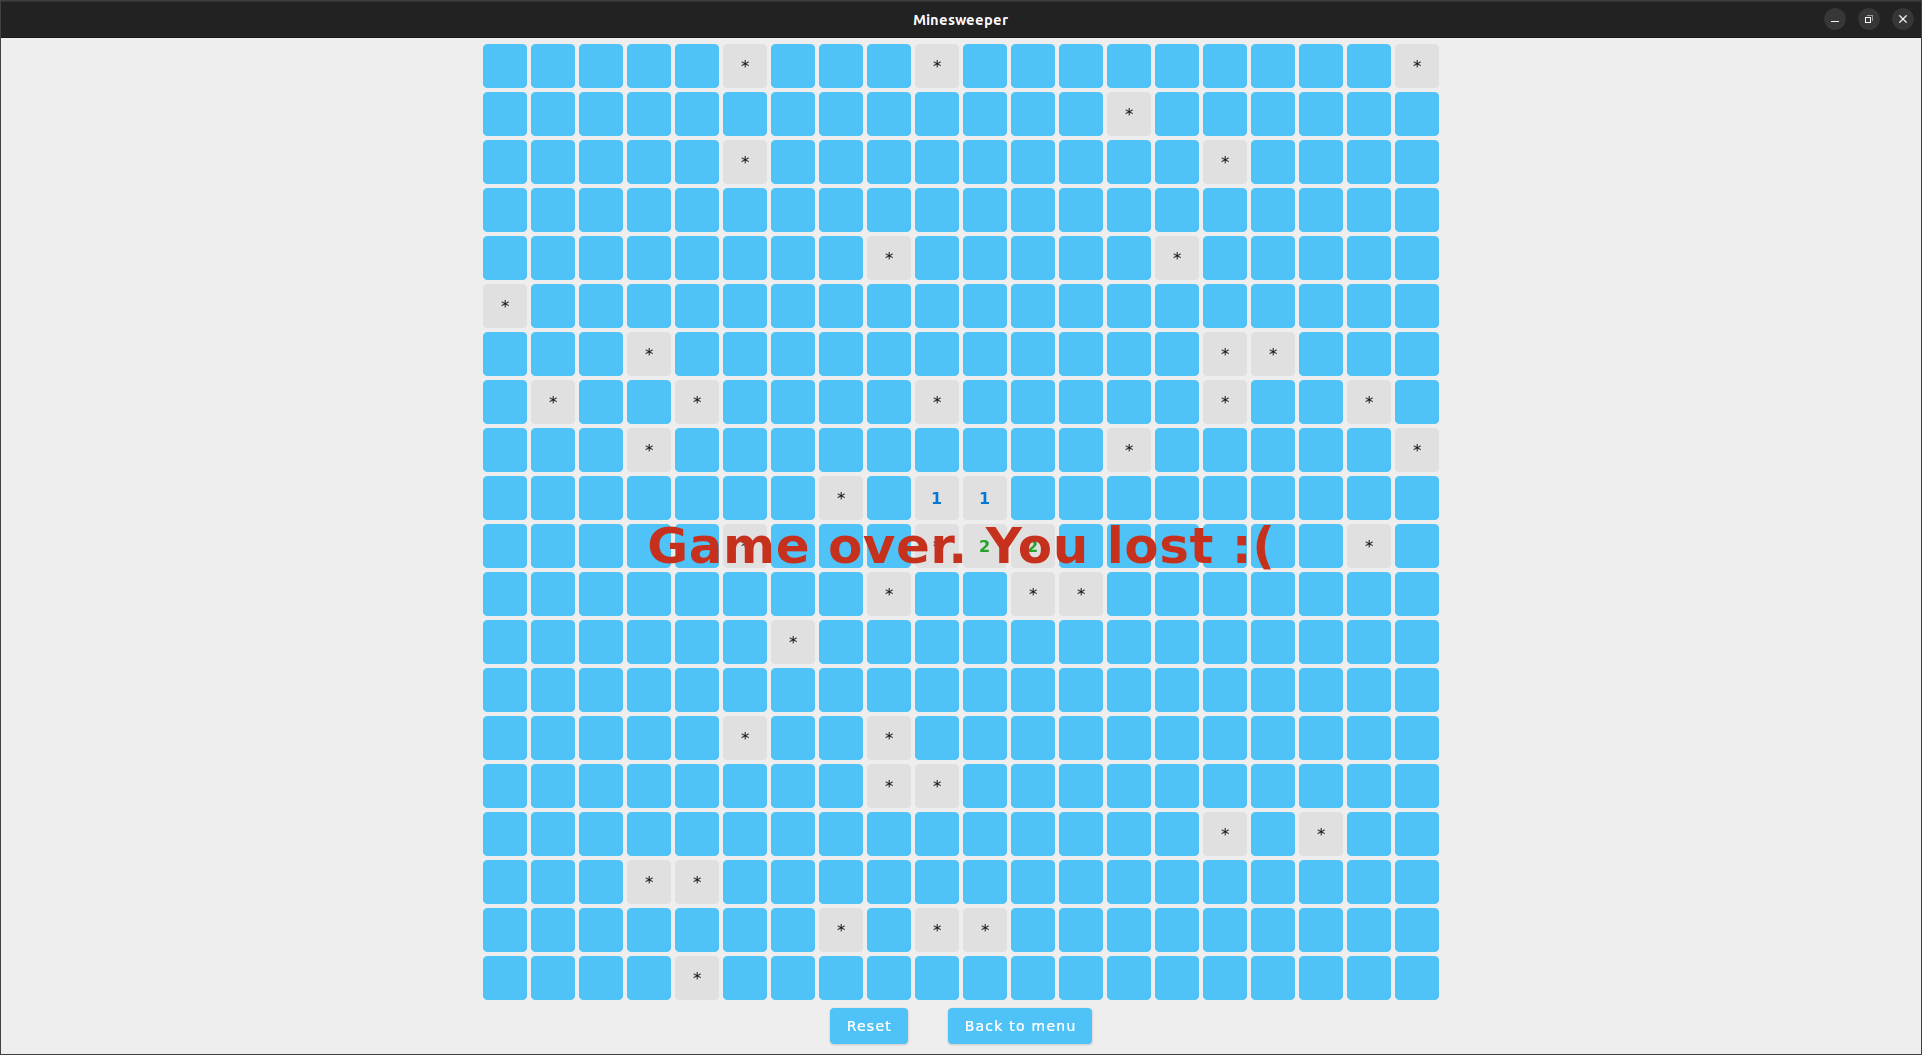
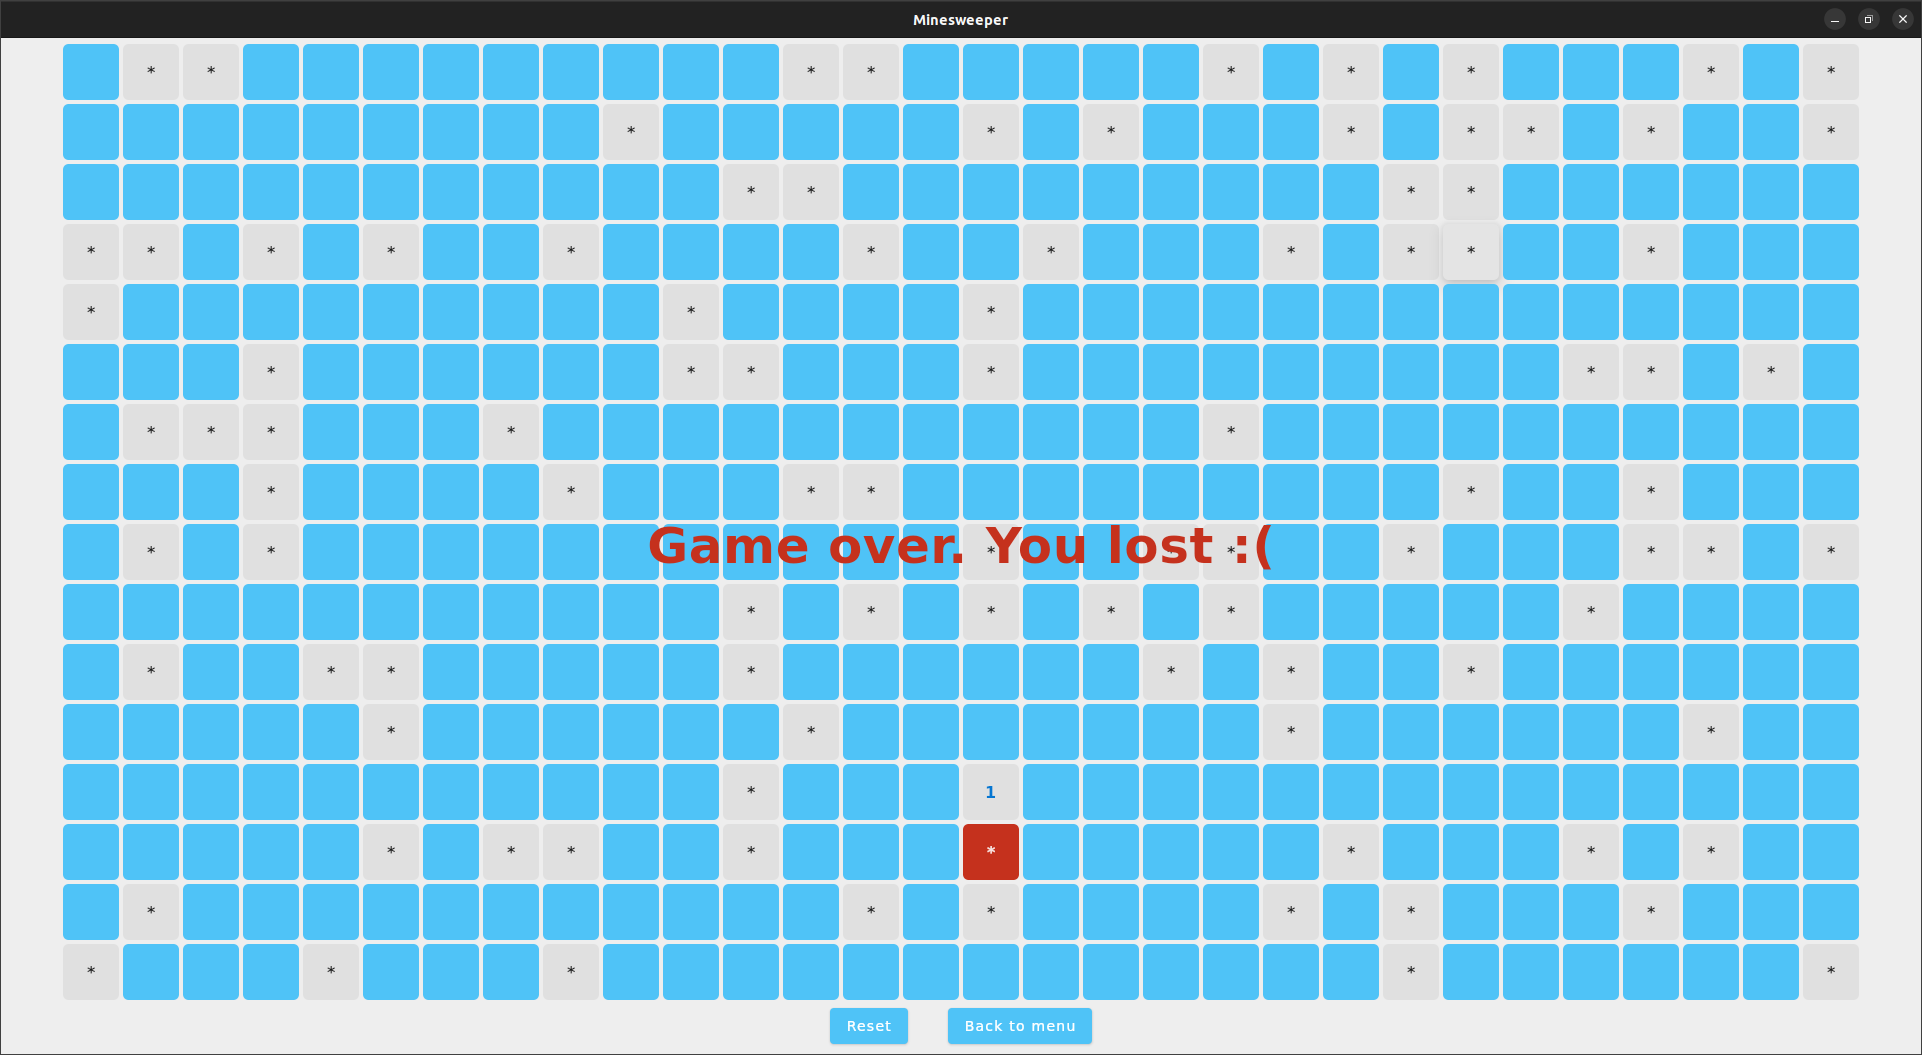
Added blown mine indication

diff --git a/src/jvmMain/kotlin/board/BoardViewModel.kt b/src/jvmMain/kotlin/board/BoardViewModel.kt
@@ -26,6 +26,7 @@ class BoardViewModel(width: Int, height: Int, val minesCount: Int) {
         }
 
         sealed class CellState(val value: Int) {
+            object MineBlown: CellState(-2)
             object Mine: CellState(-1)
             class Free(value: Int): CellState(value)
         }
@@ -63,6 +64,7 @@ class BoardViewModel(width: Int, height: Int, val minesCount: Int) {
         if (cell.state == Cell.CellState.Mine) {
             mGameOver.value = true
             mWon.value = false
+            board[cell.x][cell.y].value = board[cell.x][cell.y].value.copy(state = Cell.CellState.MineBlown)
             for (mine in mines) {
                 board[mine.first][mine.second].value = board[mine.first][mine.second].value.copy(
                     visibility = Cell.CellVisibility.Open

diff --git a/src/jvmMain/kotlin/board/Board.kt b/src/jvmMain/kotlin/board/Board.kt
@@ -115,7 +115,10 @@ fun CellView(
     val interactionSource = remember { MutableInteractionSource() }
     val isHovered = interactionSource.collectIsHoveredAsState()
     val color = animateColorAsState(when {
-        isOpen -> MaterialTheme.colors.onBackground
+        isOpen -> {
+            if (mines == -2) MaterialTheme.colors.error
+            else MaterialTheme.colors.onBackground
+        }
         isMarked -> MaterialTheme.colors.secondary
         else -> MaterialTheme.colors.primary
     })
